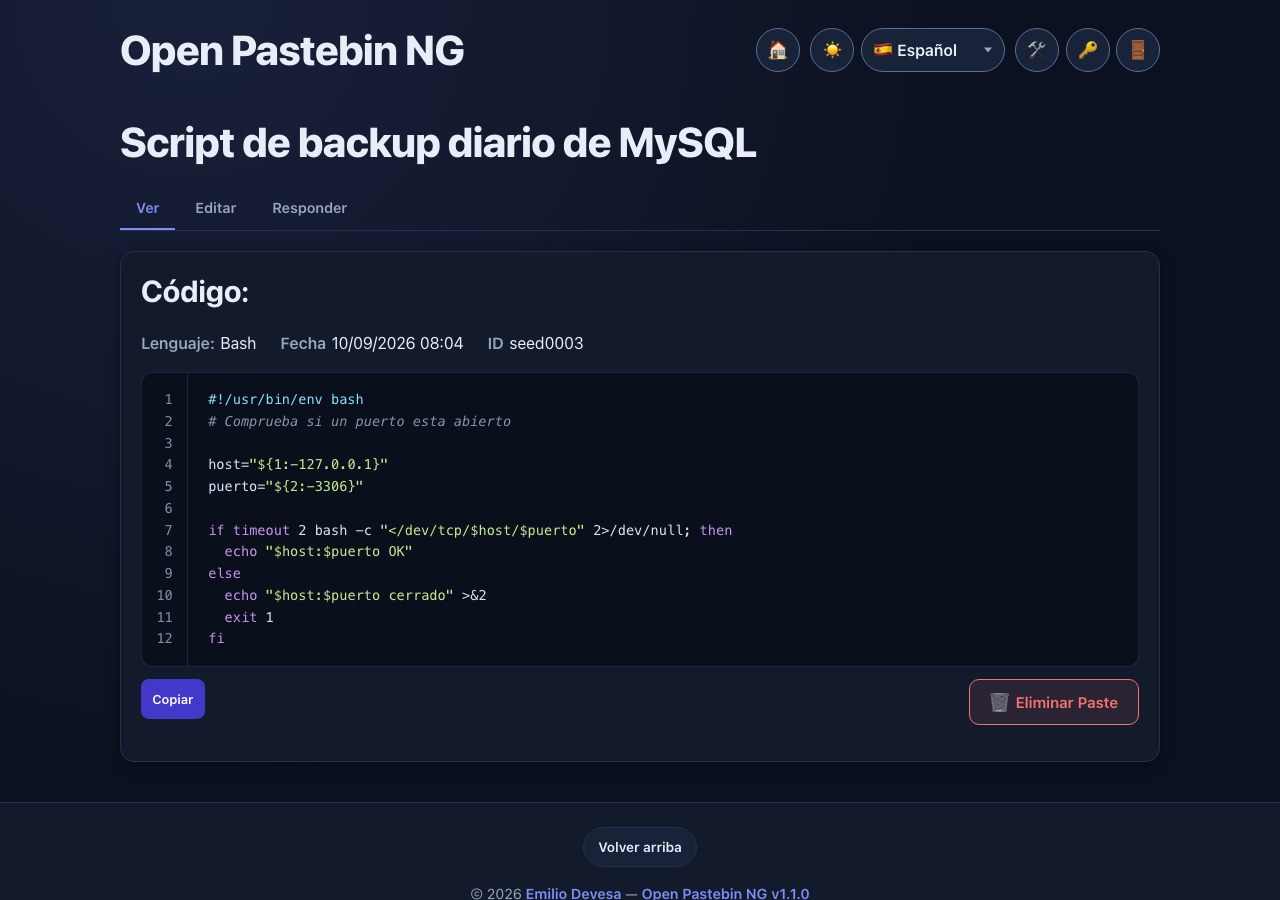
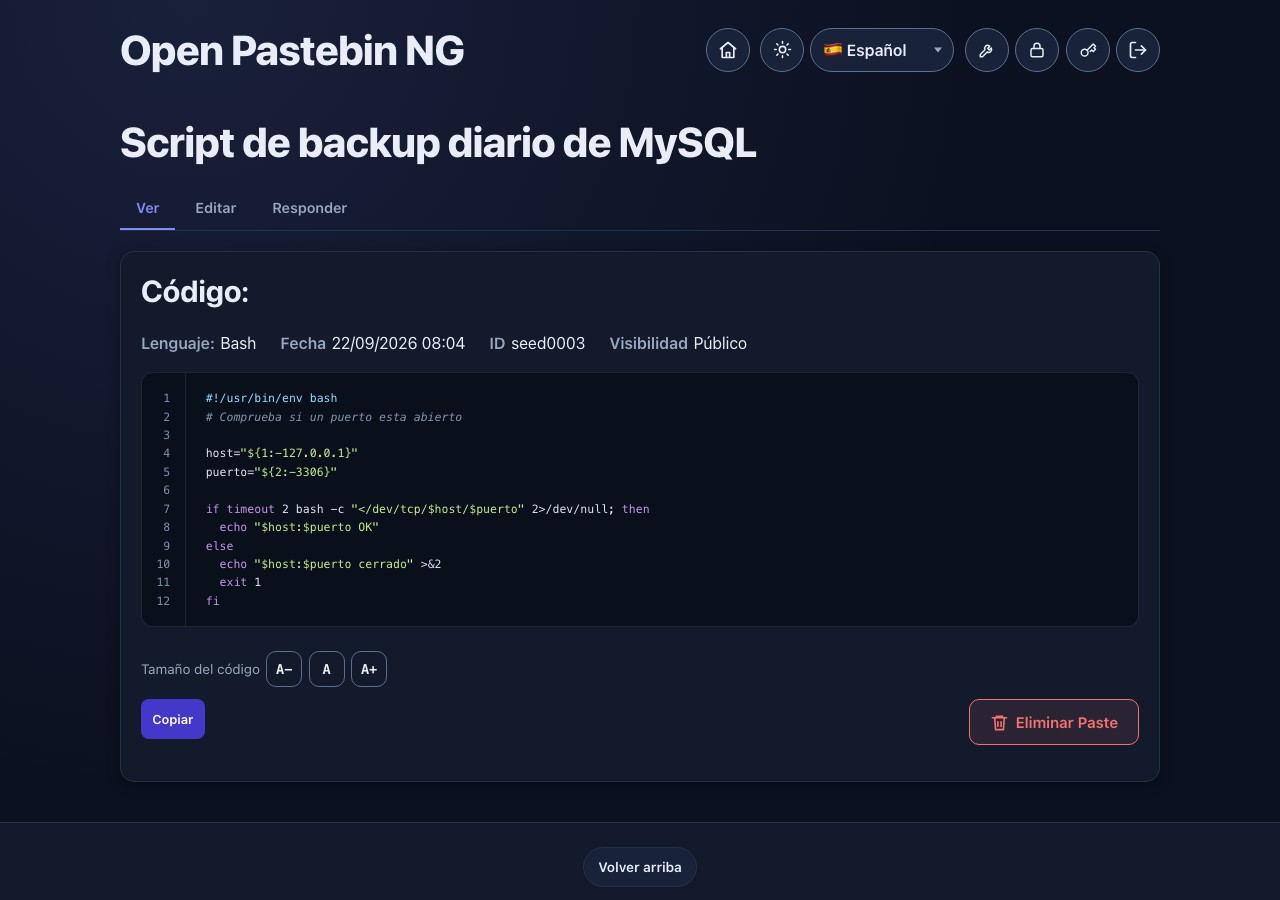
docs(site): refresh screenshots for v1.2.0

diff --git a/index.html b/index.html
@@ -176,16 +176,16 @@
           <figcaption><strong>Create a paste</strong> — topic, language selector and a plain-text editor.</figcaption>
         </figure>
         <figure class="shot">
-          <img src="assets/screenshots/opng-view-paste.jpg" width="1280" height="900" loading="lazy" alt="Viewing a paste with syntax highlighting, line numbers and a copy button">
-          <figcaption><strong>Read highlighted code</strong> — line numbers, copy button and owner delete action.</figcaption>
+          <img src="assets/screenshots/opng-view-paste.jpg" width="1280" height="900" loading="lazy" alt="Viewing a paste with syntax highlighting, line numbers, visibility label, code size controls and a copy button">
+          <figcaption><strong>Read highlighted code</strong> — line numbers, visibility, code size controls, copy and owner delete actions.</figcaption>
         </figure>
         <figure class="shot">
-          <img src="assets/screenshots/opng-edit-reply-paste.jpg" width="1280" height="900" loading="lazy" alt="Editing a paste with topic, language and remaining length indicator">
-          <figcaption><strong>Edit or reply</strong> — the editor stays out of the way and shows remaining space.</figcaption>
+          <img src="assets/screenshots/opng-edit-reply-paste.jpg" width="1280" height="900" loading="lazy" alt="Editing a paste with topic, language selector and access and lifetime options">
+          <figcaption><strong>Edit or reply</strong> — adjust the topic, language and access rules in place.</figcaption>
         </figure>
         <figure class="shot">
-          <img src="assets/screenshots/opng-admin-panel.jpg" width="1280" height="900" loading="lazy" alt="Admin panel metrics with language and user charts and a global storage progress bar">
-          <figcaption><strong>Admin metrics</strong> — language and user charts with the global storage progress bar.</figcaption>
+          <img src="assets/screenshots/opng-admin-panel.jpg" width="1280" height="900" loading="lazy" alt="Admin panel with tool shortcuts, metrics, language and user charts and a global storage progress bar">
+          <figcaption><strong>Admin metrics</strong> — tool shortcuts, language and user charts with the global storage progress bar.</figcaption>
         </figure>
       </div>
     </div>
